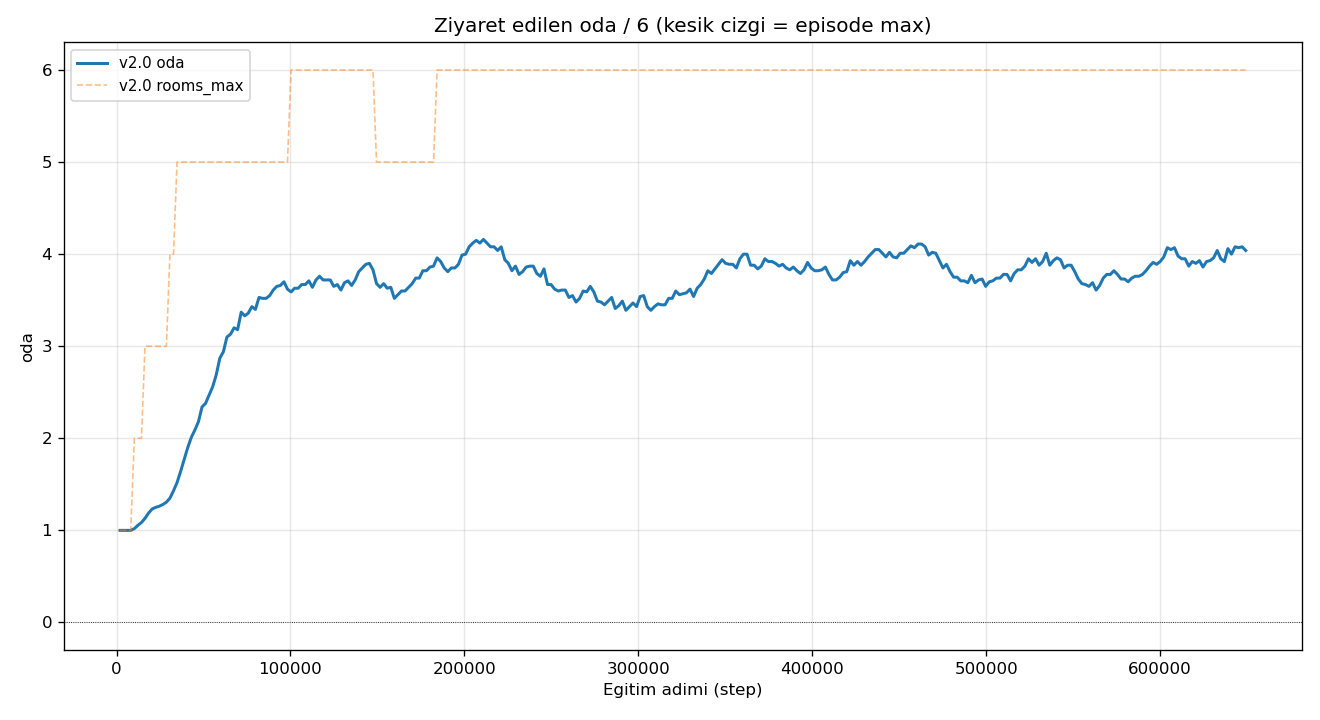
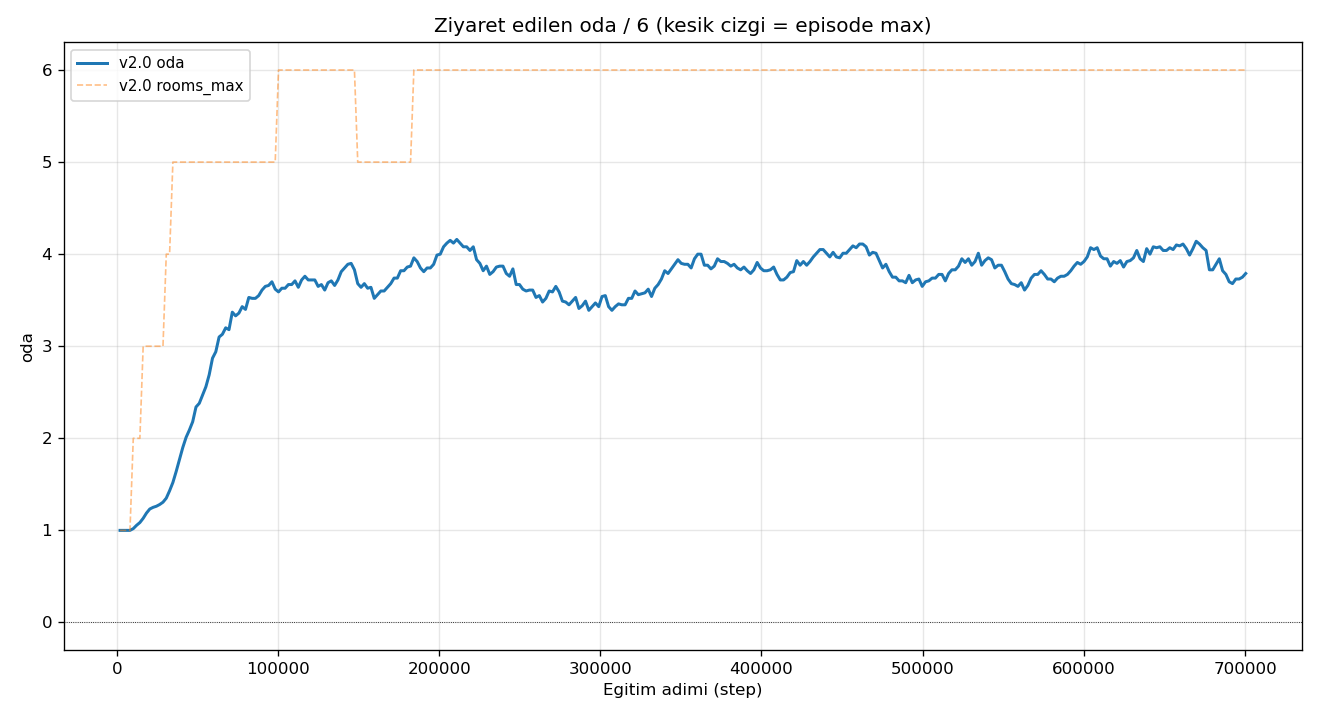
auto(operator): refresh report @700k step (healthy, no intervention)

diff --git a/docs/REPORT.md b/docs/REPORT.md
@@ -6,7 +6,7 @@ Otomatik uretildi (`scripts/report.py`). Operator agent gunceller.
 
 | Versiyon | Son step | Son reward | Peak reward | Peak voxel (max) | Peak oda (max) |
 |---|---|---|---|---|---|
-| v2.0 | 649,216 | +106.1 | +108.9 | 226/1024 | 6/6 |
+| v2.0 | 700,416 | +94.7 | +108.9 | 227/1024 | 6/6 |
 
 ## Versiyon / Mudahale Gunlugu
 
